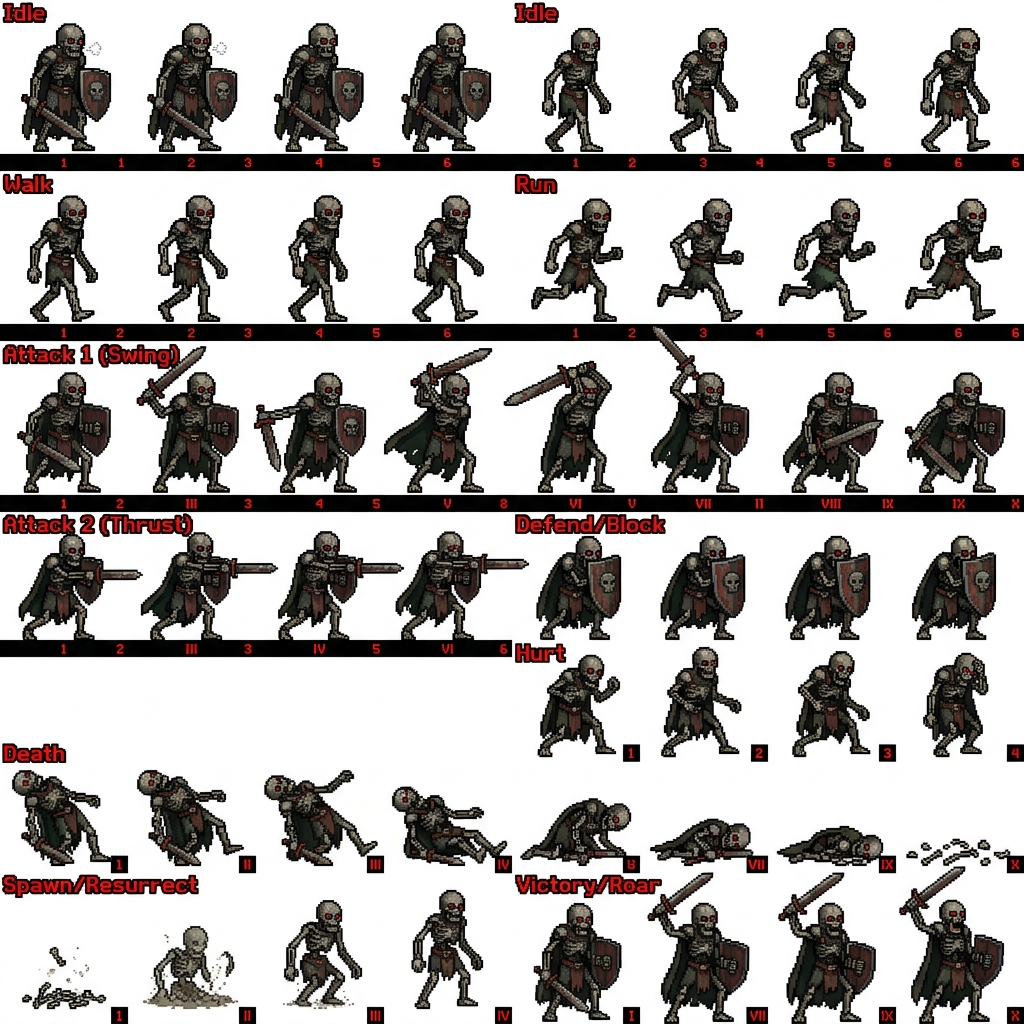
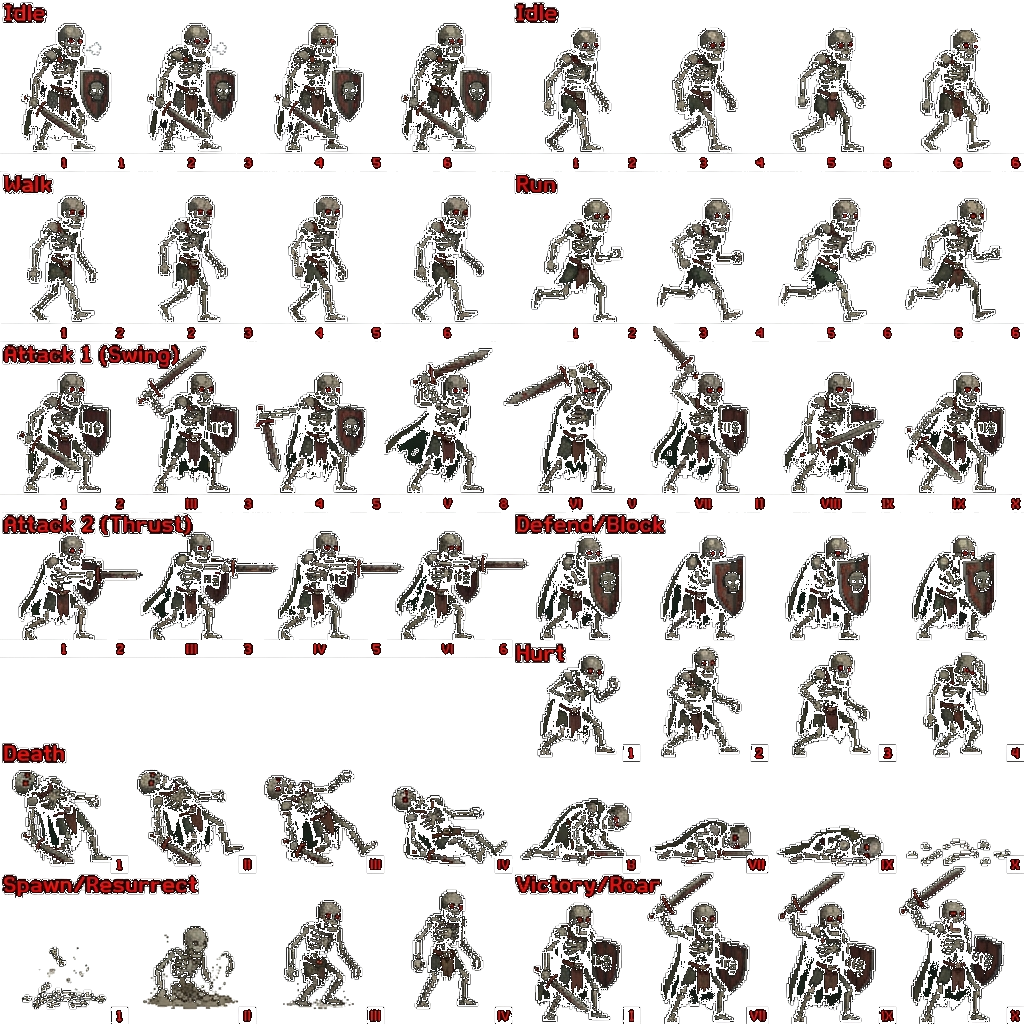
feat: Add WASD/key controls, portal HUD button, and pre-keyed transparent sprites
- WASD movement (screen-relative, converted to isometric world space)
- < melee attack and > fireball with nearest-target auto aim; HUD slots clickable
- Skills panel hotkey moved from S to K to avoid WASD conflict; start guide updated
- Town portal button added to HUD next to the potion slot
- hero.png/skeleton.png converted to real alpha-channel PNGs; runtime makeTransparent()
  keying removed so sprites render identically when opened via file://

diff --git a/js/game.js b/js/game.js
@@ -3,34 +3,6 @@
  * Combines Camera, Map, Player, Monsters, Audio Synth, and Loop Engine.
  */
 
-// Preprocessor for transparent PNG keying (CORS safe check).
-// Sheets in /assets use solid black or solid white backgrounds, so both
-// extremes are keyed out.
-function makeTransparent(img, threshold = 25) {
-    const canvas = document.createElement('canvas');
-    canvas.width = img.width;
-    canvas.height = img.height;
-    const ctx = canvas.getContext('2d');
-    ctx.drawImage(img, 0, 0);
-
-    const imgData = ctx.getImageData(0, 0, canvas.width, canvas.height);
-    const data = imgData.data;
-
-    for (let i = 0; i < data.length; i += 4) {
-        const r = data.at(i);
-        const g = data.at(i + 1);
-        const b = data.at(i + 2);
-
-        const isBlackBg = r < threshold && g < threshold && b < threshold;
-        const isWhiteBg = r > 240 && g > 240 && b > 240;
-        if (isBlackBg || isWhiteBg) {
-            Reflect.set(data, i + 3, 0); // alpha = 0
-        }
-    }
-    ctx.putImageData(imgData, 0, 0);
-    return canvas;
-}
-
 // ==========================================
 // 1. SOUND SYNTHESIS ENGINE (Web Audio API)
 // ==========================================
@@ -606,18 +578,15 @@ class Player {
         
         this.animTimer = 0;
         this.animSpeed = 0.15;
+        // Sheets in /assets ship with pre-keyed transparent backgrounds,
+        // so they can be drawn directly (works on file:// as well).
         this.spriteSheet = new Image();
         this.spriteSheet.src = 'assets/hero.png';
         this.processedSheet = null;
         this.isLoaded = false;
         this.spriteSheet.onload = () => {
-            try {
-                this.processedSheet = makeTransparent(this.spriteSheet);
-                this.isLoaded = true;
-            } catch(e) {
-                // local file fallback (CORS restriction on file:///)
-                this.isLoaded = false;
-            }
+            this.processedSheet = this.spriteSheet;
+            this.isLoaded = true;
         };
 
         this.attackDuration = 20;
@@ -974,18 +943,14 @@ class Monster {
 
         this.animTimer = Math.random() * 10;
         this.animSpeed = 0.1;
+        // Pre-keyed transparent sheet; drawn directly (works on file://).
         this.spriteSheet = new Image();
         this.spriteSheet.src = 'assets/skeleton.png';
         this.processedSheet = null;
         this.isLoaded = false;
         this.spriteSheet.onload = () => {
-            try {
-                this.processedSheet = makeTransparent(this.spriteSheet);
-                this.isLoaded = true;
-            } catch(e) {
-                // local file fallback (CORS restriction on file:///)
-                this.isLoaded = false;
-            }
+            this.processedSheet = this.spriteSheet;
+            this.isLoaded = true;
         };
         this.resists = { fire: 0, physical: 0 };
 
@@ -1592,6 +1557,8 @@ class Game {
         this.zoom = 1.6;
         this.nextBossKills = BOSS_KILL_INTERVAL;
         this.selectedGemIdx = null;
+        this.keys = {};
+        this.movingByKeys = false;
         
         this.setupUI();
         this.setupInputs();
@@ -1739,6 +1706,19 @@ class Game {
 
         document.getElementById('slot-potion').addEventListener('click', () => {
             this.triggerPotion();
+        });
+
+        document.getElementById('slot-portal').addEventListener('click', () => {
+            sfx.init();
+            this.triggerTownPortal();
+        });
+
+        document.getElementById('slot-lclick').addEventListener('click', () => {
+            if (this.isGameRunning) this.triggerMeleeKey();
+        });
+
+        document.getElementById('slot-rclick').addEventListener('click', () => {
+            if (this.isGameRunning) this.triggerFireballKey();
         });
 
         const slots = document.querySelectorAll('.inv-slot');
@@ -1952,18 +1932,60 @@ class Game {
         window.addEventListener('keydown', e => {
             sfx.init();
             const key = e.key.toUpperCase();
-            if (key === 'Q') {
+            if (key === 'W' || key === 'A' || key === 'S' || key === 'D') {
+                if (this.isGameRunning) this.keys[key] = true;
+            } else if (key === ',' || key === '<') {
+                if (this.isGameRunning) this.triggerMeleeKey();
+            } else if (key === '.' || key === '>') {
+                if (this.isGameRunning) this.triggerFireballKey();
+            } else if (key === 'Q') {
                 this.triggerPotion();
             } else if (key === 'I') {
                 document.getElementById('inventory-panel').classList.toggle('hidden');
             } else if (key === 'C') {
                 document.getElementById('stats-panel').classList.toggle('hidden');
-            } else if (key === 'S') {
+            } else if (key === 'K') {
                 document.getElementById('skills-panel').classList.toggle('hidden');
             } else if (key === 'T') {
                 this.triggerTownPortal();
             }
         });
+
+        window.addEventListener('keyup', e => {
+            const key = e.key.toUpperCase();
+            if (key === 'W' || key === 'A' || key === 'S' || key === 'D') {
+                this.keys[key] = false;
+            }
+        });
+
+        // Drop held movement keys when the window loses focus
+        window.addEventListener('blur', () => {
+            this.keys = {};
+        });
+    }
+
+    // Converts held WASD keys (screen directions) into isometric world
+    // movement each frame; releasing all keys stops the player.
+    processKeyboardMovement() {
+        let mx = 0;
+        let my = 0;
+        if (this.keys.W) my -= 1;
+        if (this.keys.S) my += 1;
+        if (this.keys.A) mx -= 1;
+        if (this.keys.D) mx += 1;
+
+        if (mx !== 0 || my !== 0) {
+            let wx = (mx + 2 * my) * 0.5;
+            let wy = (2 * my - mx) * 0.5;
+            const len = Math.hypot(wx, wy);
+            wx /= len;
+            wy /= len;
+            this.player.moveTo(this.player.x + wx * 50, this.player.y + wy * 50);
+            this.movingByKeys = true;
+        } else if (this.movingByKeys) {
+            this.player.moveTo(this.player.x, this.player.y);
+            this.movingByKeys = false;
+        }
     }
 
     triggerPotion() {
@@ -2019,33 +2041,9 @@ class Game {
         }
 
         if (clickedMonster) {
-            const dx = clickedMonster.x - this.player.x;
-            const dy = clickedMonster.y - this.player.y;
-            const dist = Math.hypot(dx, dy);
-
-            let angle = Math.atan2(dy, dx);
-            if (angle < 0) angle += Math.PI * 2;
-            this.player.direction = Math.round(angle / (Math.PI / 4)) % 8;
-
+            const dist = Math.hypot(clickedMonster.x - this.player.x, clickedMonster.y - this.player.y);
             if (dist <= this.player.attackRange) {
-                if (this.player.meleeAttack()) {
-                    sfx.playSlash();
-
-                    // crit calculation
-                    const baseDamage = this.player.atk;
-                    const isCrit = Math.random() < (this.player.critChance || 0);
-                    let damage = baseDamage;
-                    if (isCrit) {
-                        damage = Math.floor(damage * (this.player.critMultiplier || 1));
-                        this.floaters.add(clickedMonster.x, clickedMonster.y - 10, 'CRIT!', '#ffdd55');
-                    }
-
-                    const expGained = clickedMonster.takeDamage(damage, this.floaters, 'physical');
-                    if (expGained > 0) {
-                        this.handleMonsterKill(clickedMonster);
-                    }
-                    this.updateUI();
-                }
+                this.attackMonster(clickedMonster);
             } else {
                 this.player.moveTo(clickedMonster.x, clickedMonster.y);
             }
@@ -2054,7 +2052,39 @@ class Game {
         }
     }
 
+    attackMonster(monster) {
+        const dx = monster.x - this.player.x;
+        const dy = monster.y - this.player.y;
+        let angle = Math.atan2(dy, dx);
+        if (angle < 0) angle += Math.PI * 2;
+        this.player.direction = Math.round(angle / (Math.PI / 4)) % 8;
+
+        if (this.player.meleeAttack()) {
+            sfx.playSlash();
+
+            // crit calculation
+            const baseDamage = this.player.atk;
+            const isCrit = Math.random() < (this.player.critChance || 0);
+            let damage = baseDamage;
+            if (isCrit) {
+                damage = Math.floor(damage * (this.player.critMultiplier || 1));
+                this.floaters.add(monster.x, monster.y - 10, 'CRIT!', '#ffdd55');
+            }
+
+            const expGained = monster.takeDamage(damage, this.floaters, 'physical');
+            if (expGained > 0) {
+                this.handleMonsterKill(monster);
+            }
+            this.updateUI();
+        }
+    }
+
     handleRightClick(sx, sy) {
+        const cartDest = this.screenToCartesian(sx, sy);
+        this.castFireball(cartDest.x, cartDest.y);
+    }
+
+    castFireball(tx, ty) {
         if (this.currentMap === 'town') {
             this.floaters.add(this.player.x, this.player.y - 15, "마을은 안전지대입니다.", "#00ffff");
             return;
@@ -2068,11 +2098,10 @@ class Game {
             return;
         }
 
-        const cartDest = this.screenToCartesian(sx, sy);
         this.player.mp -= spellCost;
-        
-        const dx = cartDest.x - this.player.x;
-        const dy = cartDest.y - this.player.y;
+
+        const dx = tx - this.player.x;
+        const dy = ty - this.player.y;
         let angle = Math.atan2(dy, dx);
         if (angle < 0) angle += Math.PI * 2;
         this.player.direction = Math.round(angle / (Math.PI / 4)) % 8;
@@ -2084,8 +2113,8 @@ class Game {
         this.projectiles.push(new Projectile(
             this.player.x,
             this.player.y,
-            cartDest.x,
-            cartDest.y,
+            tx,
+            ty,
             fireDamage,
             effectiveSlvl,
             'fire'
@@ -2095,6 +2124,43 @@ class Game {
         this.player.attackTimer = 12;
 
         this.updateUI();
+    }
+
+    findNearestMonster(maxDist) {
+        if (this.currentMap !== 'dungeon') return null;
+        let nearest = null;
+        let nearestDist = maxDist;
+        for (const m of this.monsters) {
+            if (m.state === 'death') continue;
+            const d = Math.hypot(m.x - this.player.x, m.y - this.player.y);
+            if (d <= nearestDist) {
+                nearestDist = d;
+                nearest = m;
+            }
+        }
+        return nearest;
+    }
+
+    triggerMeleeKey() {
+        const target = this.findNearestMonster(this.player.attackRange);
+        if (target) {
+            this.attackMonster(target);
+        } else if (this.player.meleeAttack()) {
+            sfx.playSlash();
+        }
+    }
+
+    triggerFireballKey() {
+        const target = this.findNearestMonster(600);
+        if (target) {
+            this.castFireball(target.x, target.y);
+        } else {
+            const angle = this.player.direction * (Math.PI / 4);
+            this.castFireball(
+                this.player.x + Math.cos(angle) * 120,
+                this.player.y + Math.sin(angle) * 120
+            );
+        }
     }
 
     // Converts raw screen coords into the unzoomed (virtual) screen space
@@ -2554,6 +2620,7 @@ class Game {
         }
 
         // --- UPDATE STEP ---
+        this.processKeyboardMovement();
         this.player.update(this.map);
         this.camera.update(this.player.x, this.player.y);
 

diff --git a/index.html b/index.html
@@ -28,12 +28,11 @@
                 <h2>DIALIKE</h2>
                 <p>다크 판타지 월드에 오신 것을 환영합니다.</p>
                 <ul>
-                    <li><span class="key">좌클릭</span>: 이동 및 근접 공격</li>
-                    <li><span class="key">우클릭</span>: 파이어볼 투사체 발사</li>
-                    <li><span class="key">I</span>: 인벤토리 창 토글</li>
-                    <li><span class="key">C</span>: 캐릭터 정보 창 토글</li>
-                    <li><span class="key">S</span>: 스킬 / <span class="key">Q</span>: 물약 / <span class="key">T</span>: 차원문</li>
-                    <li><span class="key">휠</span>: 카메라 확대 / 축소</li>
+                    <li><span class="key">W A S D</span>: 이동</li>
+                    <li><span class="key">&lt;</span>: 기본 공격 (가까운 적) / <span class="key">&gt;</span>: 파이어볼</li>
+                    <li><span class="key">I</span>: 인벤토리 / <span class="key">C</span>: 캐릭터 정보 / <span class="key">K</span>: 스킬</li>
+                    <li><span class="key">Q</span>: 물약 / <span class="key">T</span>: 차원문 / <span class="key">휠</span>: 확대·축소</li>
+                    <li><span class="key">마우스</span>: 클릭 이동·공격, NPC 대화도 가능</li>
                 </ul>
                 <button id="start-game-btn" class="gothic-btn">게임 시작</button>
             </div>
@@ -203,18 +202,18 @@
                         <div class="action-btn-group">
                             <button id="toggle-stats-btn" title="캐릭터 정보 (C)">C</button>
                             <button id="toggle-inv-btn" title="인벤토리 (I)">I</button>
-                            <button id="toggle-skills-btn" title="스킬 정보 (S)">S</button>
+                            <button id="toggle-skills-btn" title="스킬 정보 (K)">K</button>
                         </div>
 
                         <!-- Skill / Potion slots -->
                         <div class="slots-container">
-                            <div class="skill-slot active" id="slot-lclick">
-                                <span class="slot-key">L-Click</span>
+                            <div class="skill-slot active" id="slot-lclick" title="기본 공격 (&lt; 키 또는 좌클릭)">
+                                <span class="slot-key">&lt;</span>
                                 <div class="slot-icon atk-icon"></div>
                                 <span class="slot-name">베기</span>
                             </div>
-                            <div class="skill-slot" id="slot-rclick">
-                                <span class="slot-key">R-Click</span>
+                            <div class="skill-slot" id="slot-rclick" title="파이어볼 (&gt; 키 또는 우클릭)">
+                                <span class="slot-key">&gt;</span>
                                 <div class="slot-icon spell-icon"></div>
                                 <span class="slot-name">파이어볼</span>
                             </div>
@@ -223,6 +222,11 @@
                                 <div class="slot-icon potion-icon"></div>
                                 <span class="potion-count" id="potion-count">5</span>
                                 <span class="slot-name">체력물약</span>
+                            </div>
+                            <div class="skill-slot" id="slot-portal" title="차원문 열기 (T)">
+                                <span class="slot-key">T</span>
+                                <div class="slot-icon portal-icon"></div>
+                                <span class="slot-name">차원문</span>
                             </div>
                         </div>
 

diff --git a/style.css b/style.css
@@ -616,6 +616,12 @@ canvas {
     border-radius: 1px;
 }
 
+.portal-icon {
+    background: radial-gradient(circle, #ffffff 0%, #00ffff 35%, #0066cc 100%);
+    border: 1px solid #00aaff;
+    box-shadow: 0 0 6px #00ccff;
+}
+
 .potion-count {
     position: absolute;
     top: 2px;